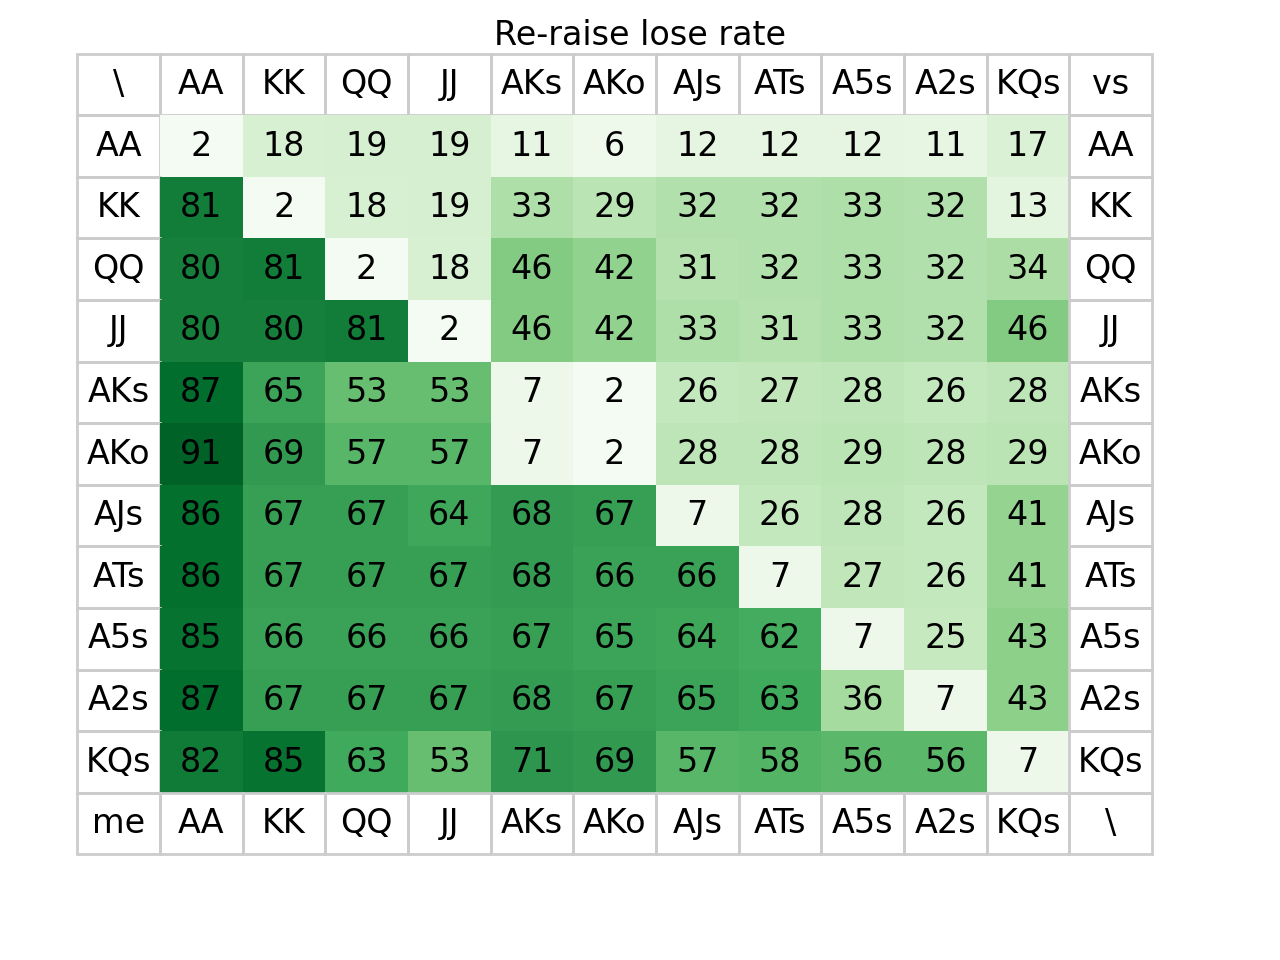
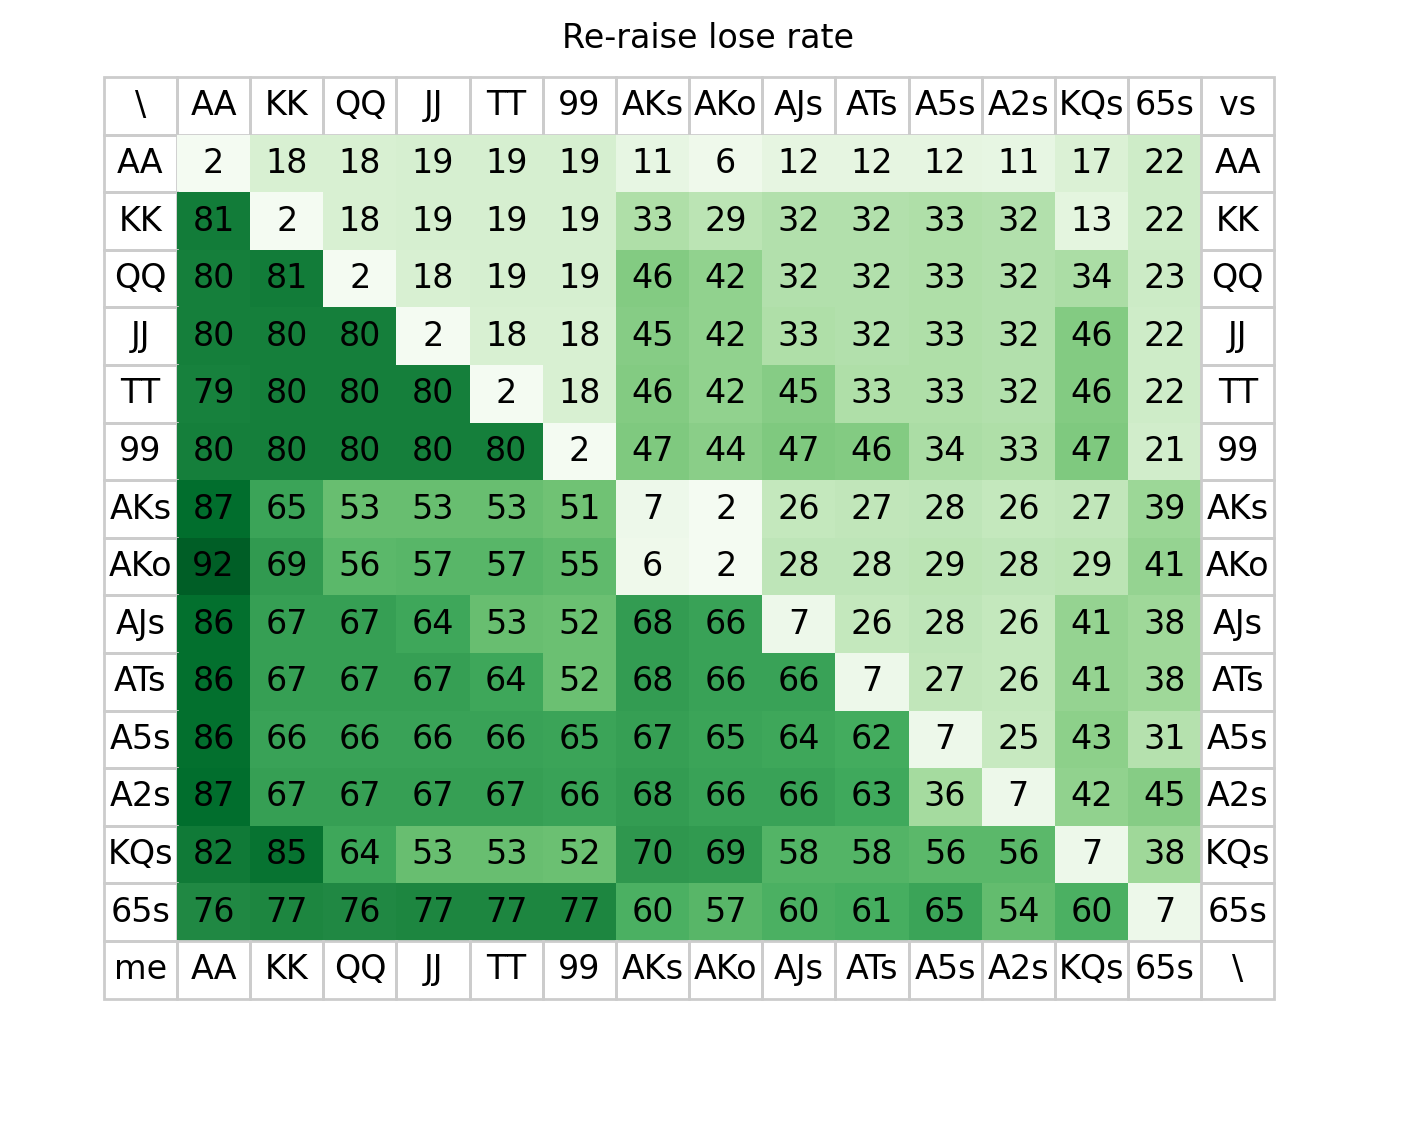
recreate table

Changed region(s): [[0.0625, 0.0, 0.9062, 0.9062]]

diff --git a/poker.py b/poker.py
@@ -78,8 +78,6 @@ def random_flop_get(power, reraise=False):
 def print_stat():
     itoseatpow  = [5, 4, 3, 2, 1, 0]
     itoseat = ["UG", "HJ", "CO", "BN", "SB", "BB"]
-    # if random.random() < 0.1:
-    #     print("### リンプイン ###")
     print("リレイズスタート時相手レイズ", end="：")
     for i in range(3):
         ok = ['ブラフ', "真"][int(random.random() < 0.7)]
@@ -95,12 +93,6 @@ def print_stat():
             if random.random() < 0.5: text += " CALL"
             else: text += " BET"
         print(text)
-    # print("BB: 相手の確率があればコール")
-    # つまり、これ以上の倍率でいくと相手が乗ってしまう、ので、先に降ろす
-    # フロップ時点(あと1枚で系)
-    # 1/4 (フラッシュ)
-    # 1/6 (ストレート)
-    # 1/7 (任意の一枚がほしい)
 
 def pick_raise(x, y):
     key = to_key(x, y)
@@ -177,9 +169,9 @@ def plot_handrange():
 
 
 vs_rate_cards = [
-    "AA", "KK", "QQ", "JJ",
+    "AA", "KK", "QQ", "JJ", "TT", "99",
     "AKs", "AKo", "AJs", "ATs",
-    "A5s", "A2s", "KQs"
+    "A5s", "A2s", "KQs", "65s"
 ]
 def run_to_data():
     def to_example(card, me):
@@ -208,125 +200,200 @@ def get_run_data():
     data = """
     AA:AA:95:2:2
     AA:KK:0:81:18
-    AA:QQ:0:80:19
+    AA:QQ:0:80:18
     AA:JJ:0:80:19
-    AA:AKo:1:91:6
+    AA:TT:0:79:19
+    AA:99:0:80:19
     AA:AKs:1:87:11
+    AA:AKo:1:91:6
     AA:AJs:1:86:12
     AA:ATs:1:86:12
-    AA:KQs:0:82:17
     AA:A5s:1:86:12
     AA:A2s:1:87:11
+    AA:KQs:0:82:17
+    AA:65s:0:76:22
     KK:AA:0:18:81
     KK:KK:95:2:2
-    KK:QQ:0:80:18
+    KK:QQ:0:81:18
     KK:JJ:0:80:19
-    KK:AKo:0:69:29
+    KK:TT:0:80:19
+    KK:99:0:80:19
     KK:AKs:0:65:33
+    KK:AKo:0:69:29
     KK:AJs:0:67:32
-    KK:ATs:0:67:32
-    KK:KQs:1:85:13
+    KK:ATs:0:66:32
     KK:A5s:0:66:33
     KK:A2s:0:67:32
+    KK:KQs:1:85:13
+    KK:65s:0:76:22
     QQ:AA:0:18:80
     QQ:KK:0:18:81
     QQ:QQ:95:2:2
     QQ:JJ:0:81:18
-    QQ:AKo:0:56:42
+    QQ:TT:0:80:19
+    QQ:99:0:80:19
     QQ:AKs:0:53:46
-    QQ:AJs:0:67:31
+    QQ:AKo:0:57:42
+    QQ:AJs:0:67:32
     QQ:ATs:0:67:32
-    QQ:KQs:1:64:34
     QQ:A5s:0:66:33
     QQ:A2s:0:67:32
+    QQ:KQs:1:64:34
+    QQ:65s:0:76:23
     JJ:AA:0:19:80
-    JJ:KK:0:19:80
-    JJ:QQ:0:18:81
+    JJ:KK:0:18:80
+    JJ:QQ:0:18:80
     JJ:JJ:95:2:2
-    JJ:AKo:0:56:42
-    JJ:AKs:0:53:46
+    JJ:TT:0:80:18
+    JJ:99:0:80:18
+    JJ:AKs:0:53:45
+    JJ:AKo:0:57:42
     JJ:AJs:1:64:33
-    JJ:ATs:0:67:31
-    JJ:KQs:0:53:46
+    JJ:ATs:0:67:32
     JJ:A5s:0:66:33
     JJ:A2s:0:67:32
-    AKo:AA:1:6:91
-    AKo:KK:0:29:69
-    AKo:QQ:0:42:57
-    AKo:JJ:0:42:57
-    AKo:AKo:95:2:2
-    AKo:AKs:90:2:7
-    AKo:AJs:4:67:28
-    AKo:ATs:4:66:28
-    AKo:KQs:1:69:29
-    AKo:A5s:4:65:29
-    AKo:A2s:4:66:28
+    JJ:KQs:0:53:46
+    JJ:65s:0:76:22
+    TT:AA:0:19:79
+    TT:KK:0:19:80
+    TT:QQ:0:18:80
+    TT:JJ:0:18:80
+    TT:TT:95:2:2
+    TT:99:0:80:18
+    TT:AKs:0:53:46
+    TT:AKo:0:57:42
+    TT:AJs:0:54:45
+    TT:ATs:2:64:33
+    TT:A5s:0:66:33
+    TT:A2s:0:67:32
+    TT:KQs:0:53:46
+    TT:65s:0:77:22
+    99:AA:0:19:80
+    99:KK:0:19:80
+    99:QQ:0:19:80
+    99:JJ:0:18:80
+    99:TT:0:18:80
+    99:99:95:2:2
+    99:AKs:0:52:47
+    99:AKo:0:55:44
+    99:AJs:0:52:47
+    99:ATs:0:52:46
+    99:A5s:0:65:34
+    99:A2s:0:66:33
+    99:KQs:0:52:47
+    99:65s:0:77:21
     AKs:AA:1:11:87
     AKs:KK:0:33:65
-    AKs:QQ:0:46:53
+    AKs:QQ:0:45:53
     AKs:JJ:0:45:53
-    AKs:AKo:90:7:2
+    AKs:TT:0:45:53
+    AKs:99:0:47:51
     AKs:AKs:85:7:7
-    AKs:AJs:4:68:26
+    AKs:AKo:90:7:2
+    AKs:AJs:4:69:26
     AKs:ATs:4:68:27
-    AKs:KQs:1:70:28
     AKs:A5s:4:67:28
     AKs:A2s:4:68:26
+    AKs:KQs:1:70:27
+    AKs:65s:0:59:39
+    AKo:AA:1:6:92
+    AKo:KK:0:29:69
+    AKo:QQ:0:42:56
+    AKo:JJ:0:42:57
+    AKo:TT:0:42:57
+    AKo:99:0:44:55
+    AKo:AKs:90:2:6
+    AKo:AKo:95:2:2
+    AKo:AJs:4:67:28
+    AKo:ATs:4:67:28
+    AKo:A5s:4:65:29
+    AKo:A2s:4:66:28
+    AKo:KQs:1:69:29
+    AKo:65s:0:57:41
     AJs:AA:1:12:86
     AJs:KK:0:32:67
-    AJs:QQ:0:32:67
+    AJs:QQ:0:31:67
     AJs:JJ:1:33:64
-    AJs:AKo:4:28:67
+    AJs:TT:0:45:53
+    AJs:99:0:47:52
     AJs:AKs:4:26:68
+    AJs:AKo:4:28:66
     AJs:AJs:85:7:7
     AJs:ATs:7:66:26
-    AJs:KQs:0:58:41
     AJs:A5s:7:64:28
     AJs:A2s:7:66:26
+    AJs:KQs:0:57:41
+    AJs:65s:0:60:38
     ATs:AA:1:12:86
     ATs:KK:0:32:67
     ATs:QQ:0:32:67
     ATs:JJ:0:32:67
+    ATs:TT:2:33:64
+    ATs:99:0:47:52
+    ATs:AKs:4:26:68
     ATs:AKo:4:28:66
-    ATs:AKs:4:27:68
     ATs:AJs:7:26:66
     ATs:ATs:85:7:7
-    ATs:KQs:0:58:41
     ATs:A5s:9:62:27
     ATs:A2s:9:63:26
-    KQs:AA:0:17:82
-    KQs:KK:1:13:85
-    KQs:QQ:1:34:63
-    KQs:JJ:0:46:53
-    KQs:AKo:1:29:69
-    KQs:AKs:1:27:71
-    KQs:AJs:0:41:57
-    KQs:ATs:0:41:58
-    KQs:KQs:85:7:7
-    KQs:A5s:0:42:56
-    KQs:A2s:0:42:56
-    A5s:AA:1:12:85
+    ATs:KQs:0:57:41
+    ATs:65s:0:61:38
+    A5s:AA:1:12:86
     A5s:KK:0:33:66
     A5s:QQ:0:33:66
     A5s:JJ:0:33:66
+    A5s:TT:0:33:66
+    A5s:99:0:34:65
+    A5s:AKs:4:27:67
     A5s:AKo:4:29:65
-    A5s:AKs:4:28:67
     A5s:AJs:7:28:64
     A5s:ATs:9:27:62
-    A5s:KQs:0:56:43
     A5s:A5s:85:7:7
-    A5s:A2s:38:36:25
+    A5s:A2s:38:35:25
+    A5s:KQs:0:56:43
+    A5s:65s:2:66:31
     A2s:AA:1:11:87
     A2s:KK:0:32:67
     A2s:QQ:0:32:67
     A2s:JJ:0:32:67
-    A2s:AKo:4:28:67
+    A2s:TT:0:32:67
+    A2s:99:0:33:66
     A2s:AKs:4:26:68
-    A2s:AJs:7:26:65
+    A2s:AKo:4:28:66
+    A2s:AJs:7:26:66
     A2s:ATs:9:26:63
-    A2s:KQs:0:56:43
     A2s:A5s:38:25:36
     A2s:A2s:85:7:7
+    A2s:KQs:0:56:42
+    A2s:65s:0:54:45
+    KQs:AA:0:17:82
+    KQs:KK:1:13:85
+    KQs:QQ:1:34:64
+    KQs:JJ:0:46:53
+    KQs:TT:0:46:53
+    KQs:99:0:47:52
+    KQs:AKs:1:28:70
+    KQs:AKo:1:29:69
+    KQs:AJs:0:41:58
+    KQs:ATs:0:41:58
+    KQs:A5s:0:43:56
+    KQs:A2s:0:43:56
+    KQs:KQs:85:7:7
+    KQs:65s:0:60:38
+    65s:AA:0:22:76
+    65s:KK:0:22:77
+    65s:QQ:0:22:76
+    65s:JJ:0:22:77
+    65s:TT:0:22:77
+    65s:99:0:21:77
+    65s:AKs:0:39:60
+    65s:AKo:0:41:57
+    65s:AJs:0:38:60
+    65s:ATs:0:38:61
+    65s:A5s:2:32:65
+    65s:A2s:0:44:54
+    65s:KQs:0:38:60
+    65s:65s:85:7:7
     """
     result = {}
     for d in data.replace(" ", "").strip().split("\n"):
@@ -344,7 +411,6 @@ def plot_vs_rate():
     cards = vs_rate_cards
     tb = Table(ax, bbox=[0,0,1,1])
     data = get_run_data()
-    print(data)
     size = 1.0 / (len(cards) + 2.0)
     for x in range(len(cards)):
         for y in range(len(cards)):
@@ -384,10 +450,6 @@ def plot_vs_rate():
     plt.rcParams['font.family'] = 'DejaVu Sans'
     plt.tick_params(labelsize=30)
     plt.show()
-    # 1vs1で勝負した際の勝率表(HJ)
-    # [ポケット             ] [A+ハイ        ] [K    ] [A+ロースーテッド ]
-    # AA, KK, QQ, JJ, TT, 99, AK, AQ, AJ, AT, KQ, KJ, A5, A4, A3, A2s
-    # Axo, A{9-6}s,弱いポケットの強さも気になる
 
 
 if __name__ == "__main__" :

diff --git a/readme.md b/readme.md
@@ -6,7 +6,6 @@
 - 最緑：リレイズで入る. AA,KK,QQ,AK ならオールインまで乗る(?)
 - 薄い色：レイズにコールで入る。薄い色は相手のポジションが弱ければ。
 
-
 ![](./docs/seat.png)
 
 # フロップ後
@@ -18,6 +17,7 @@
 - +2枚でストレート(`34 67`): 17%
 
 # バリューべット
+
 - ツーヒット / スリーカード: オールイン覚悟で Botx1
 - ポケット+low3 / ヒット+河がlow3: オールイン覚悟で Botx1
 - ナッツ構成カードを持っているならばブラフされる/ブラフできる可能性が高い
